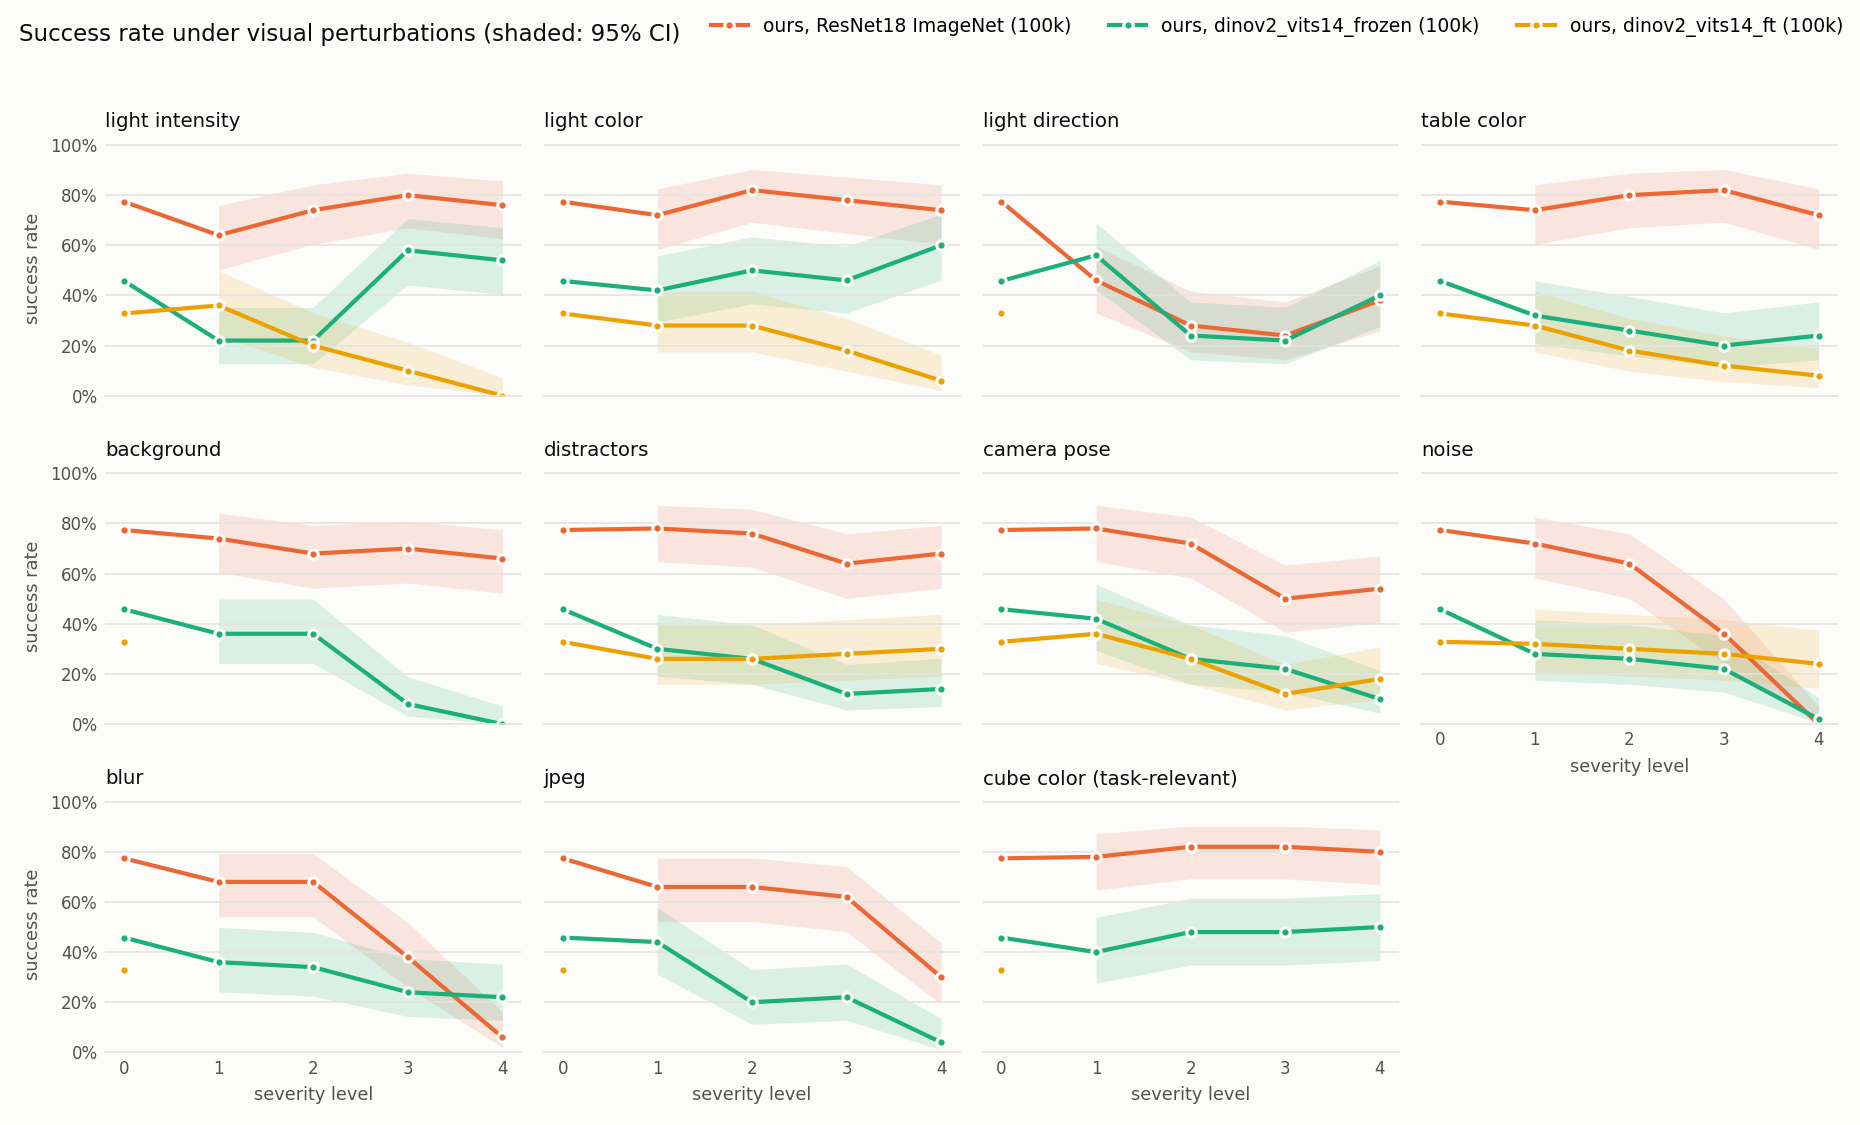
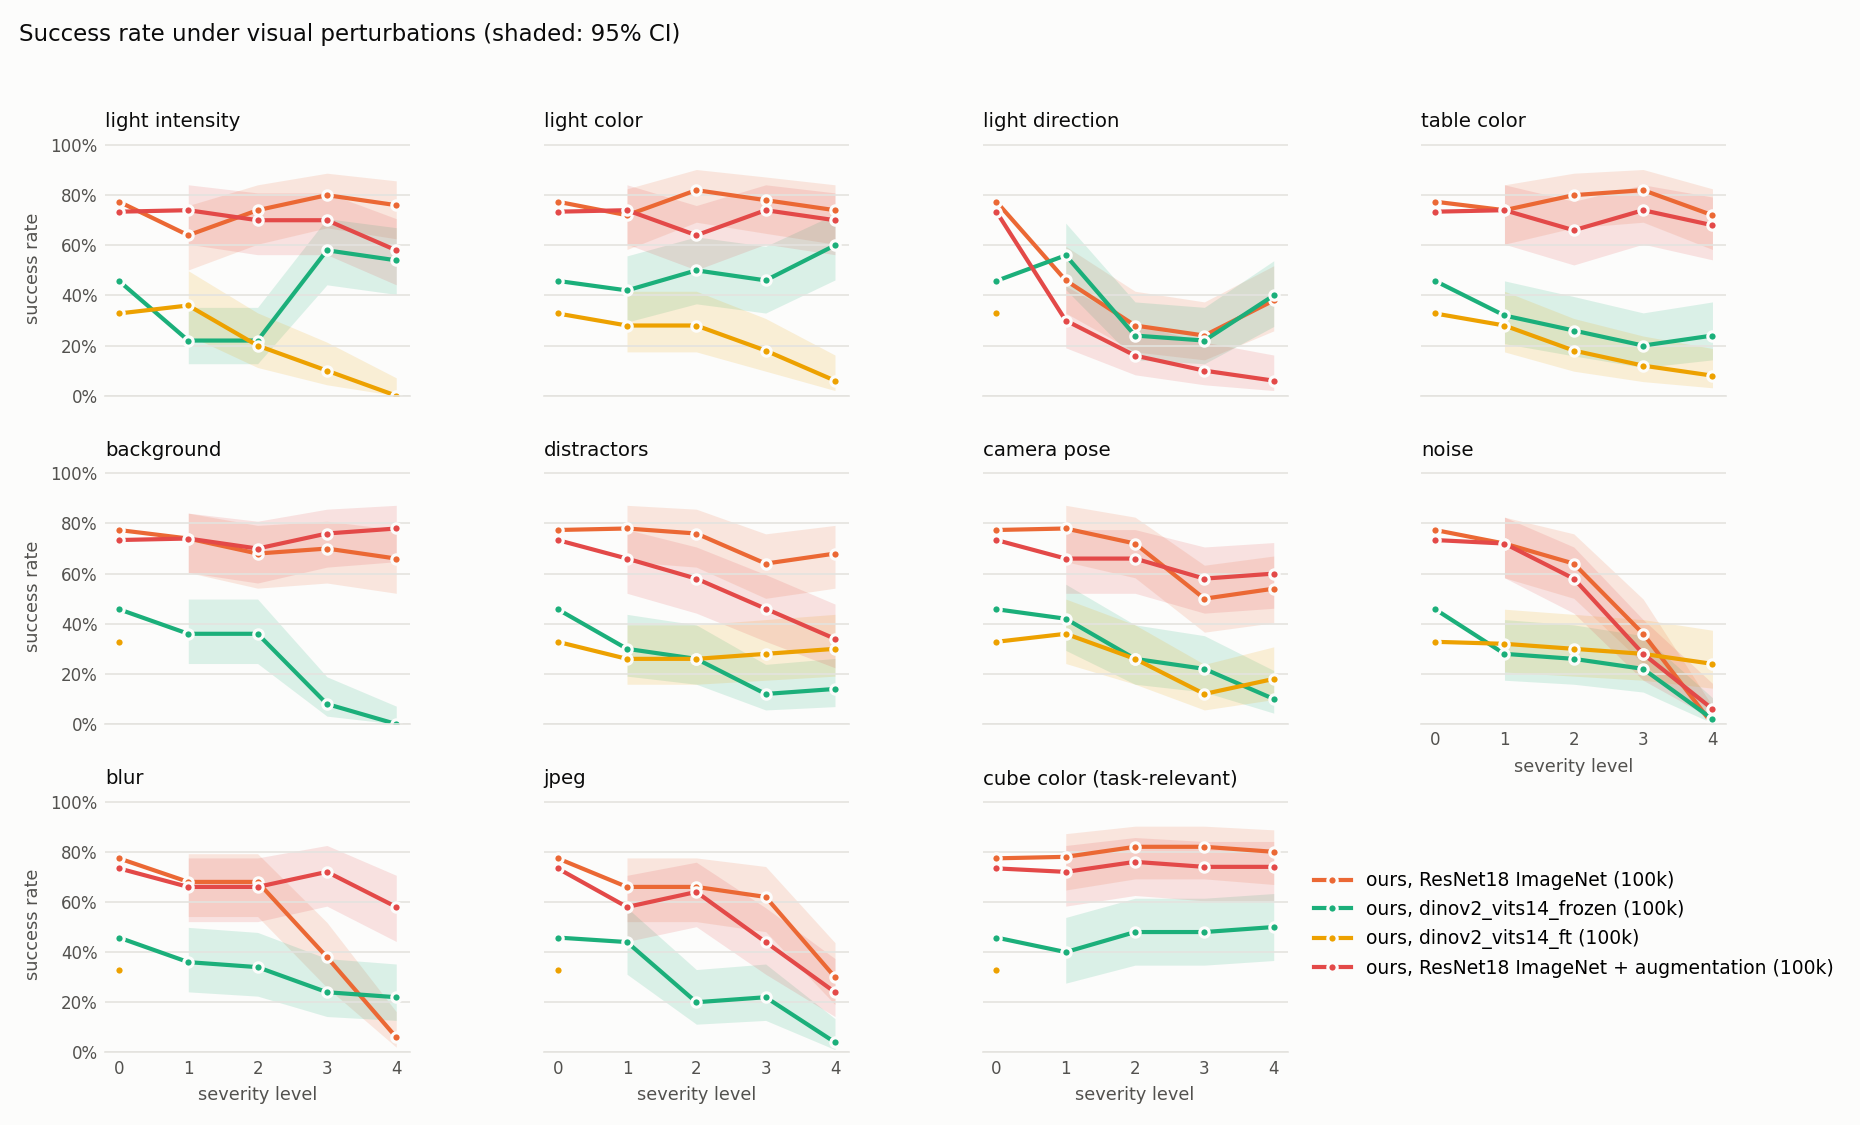
Step 3a results: augmentation fixes blur, strengthens shadow dependence
- README: outcome of the pre-registered prediction for the augmented
  baseline (73.4 % clean, paired p = 0.11 vs. baseline): blur and camera
  pose improve, noise/JPEG do not, shadows off drops it to 9 % of clean
  (baseline 51 %), distractors become a new weakness; key finding 5 and
  overview row added; updated robustness figures with all policies
- fixed per-policy colors (the augmented baseline was drawn in red next to
  the orange baseline because empty run folders took palette slots)

diff --git a/src/avr/registry.py b/src/avr/registry.py
@@ -69,9 +69,25 @@ def trained(registry: dict[str, PolicyPaths]) -> dict[str, PolicyPaths]:
     return {k: v for k, v in registry.items() if os.path.exists(f"{v.checkpoint}/config.json")}
 
 
+# Fixed colors (validated categorical palette, light surface) for the policies we report, chosen so that the
+# pairs compared most (baseline vs. its augmented version) are far apart; anything else gets the remaining slots.
+FIXED_COLORS = {
+    "pretrained ACT (LeRobot Hub)": "#2a78d6",                   # blue
+    "ours, ResNet18 ImageNet (100k)": "#eb6834",                 # orange
+    "ours, dinov2_vits14_frozen (100k)": "#1baf7a",              # aqua
+    "ours, dinov2_vits14_ft (100k)": "#eda100",                  # yellow
+    "ours, ResNet18 ImageNet + augmentation (100k)": "#4a3aa7",  # violet
+    "ours, dinov2_vits14_hr_frozen (100k)": "#e87ba4",           # magenta
+}
+
+
 def policy_colors(registry: dict) -> dict[str, str]:
-    """A fixed categorical color per policy (registry order), used by every figure so a
-    policy keeps its color no matter which subset a plot shows."""
+    """A fixed categorical color per policy, used by every figure so a policy keeps its color no
+    matter which subset a plot shows (or which empty run folders exist on Drive)."""
     from avr.analysis.robustness import SERIES_COLORS
 
-    return {label: SERIES_COLORS[i % len(SERIES_COLORS)] for i, label in enumerate(registry)}
+    spare = [c for c in SERIES_COLORS if c not in FIXED_COLORS.values()]
+    others = [label for label in registry if label not in FIXED_COLORS]
+    colors = {label: FIXED_COLORS[label] for label in registry if label in FIXED_COLORS}
+    colors.update({label: spare[i % len(spare)] for i, label in enumerate(others)})
+    return colors

diff --git a/tests/test_registry_and_probe_stats.py b/tests/test_registry_and_probe_stats.py
@@ -69,3 +69,13 @@ def test_variant_colors_do_not_depend_on_other_folders(tmp_path):
     after = policy_colors(policy_registry(str(tmp_path)))
     label = "ours, dinov2_vits14_frozen (100k)"
     assert before[label] == after[label]
+
+
+def test_compared_policies_get_fixed_distinct_colors(tmp_path):
+    from avr.registry import policy_colors
+
+    (tmp_path / "runs" / "actenc_transfer_cube_human_clip_vitb16_frozen_s1000").mkdir(parents=True)
+    colors = policy_colors(policy_registry(str(tmp_path)))
+    base, aug = colors["ours, ResNet18 ImageNet (100k)"], colors["ours, ResNet18 ImageNet + augmentation (100k)"]
+    assert (base, aug) == ("#eb6834", "#4a3aa7")
+    assert len(set(colors.values())) == len(colors)

diff --git a/README.md b/README.md
@@ -22,6 +22,9 @@ with purely visual perturbations, and works out **what each policy actually reli
 4. **A 10-minute probe predicts a new policy's weak spots.** Replaying clean actions under each perturbation (states stay
    identical, only pixels change) and measuring the shift of the predicted action chunk ranks the closed-loop damage.
    Pre-registered on finetuned DINOv2 before running its suite: Spearman ρ = −0.72 (p = 7e-5).
+5. **Standard augmentation is not a free fix.** LeRobot's image augmentation (color jitter, sharpness, small affine)
+   made the baseline robust to blur and camera shifts at no significant clean cost, but its shadow dependence got much
+   worse (shadows off: 51 % → 9 % of clean success retained) and distractors became a new weakness.
 
 ![Success retained relative to each policy's clean rate (same seeds), per perturbation and severity](results/robustness_curves_relative.png)
 
@@ -31,7 +34,8 @@ with purely visual perturbations, and works out **what each policy actually reli
 | **Baseline:** ACT, ImageNet ResNet18, finetuned | 77.4 % | 1.2 % | shadows / light direction, strong noise, blur, JPEG | color, background, distractors |
 | ACT, DINOv2 ViT-S/14, frozen | 45.8 % | 20.2 % | distractors, background, camera pose, shadows | blur, color, lighting |
 | ACT, DINOv2 ViT-S/14, finetuned | 32.8 % | 35.2 % | brightness, light / table color, camera pose | noise, distractors, shadows |
-| ACT, DINOv2 ViT-S/14 at 2× resolution, frozen | *training* | | | |
+| ACT, ResNet18, finetuned **+ image augmentation** | 73.4 % | 0.4 % | shadows / light direction (stronger), noise, JPEG, distractors | blur, camera pose, color, background |
+| ACT, DINOv2 ViT-S/14 at 2× resolution, frozen | *paused at 16k steps* | | | |
 
 <table>
 <tr>
@@ -63,7 +67,7 @@ gripper; frozen DINOv2 (bottom) depends on the whole table and background.*
 |---|---|---|
 | 1 · Baseline | Reproduce ACT on `AlohaTransferCube-v0` (pretrained checkpoint + own training) | ✅ |
 | 2 · Analysis | Perturbation suite + shadow diagnostics ✅; encoders: DINOv2 frozen ✅, finetuned ✅, 2× resolution 🚧, ResNet18 from scratch / CLIP / SigLIP ⏳; replay probe + occlusion maps ✅ | 🚧 |
-| 3 · Method | Targeted modification derived from the analysis: (A) standard image augmentation 🚧, (B) shadow augmentation ⏳ | 🚧 |
+| 3 · Method | Targeted modification derived from the analysis: (A) standard image augmentation ✅, (B) shadow augmentation ⏳ | 🚧 |
 
 ## Detailed results
 
@@ -310,6 +314,36 @@ camera pose 71 / 77 % (levels 3 / 4).
 6. Photometric factors (light intensity / color, table color) stay robust, as they already were.
 
 If 5 holds, run B (an augmentation that adds and removes shadow-like regions) targets the remaining weakness directly.
+
+#### Outcome: augmentation fixed blur, and made the policy *more* dependent on shadows
+
+Trained on Kaggle (T4, 0.310 s/step, training + evaluation 9.7 h in one background run). Clean: **73.4 %**
+(95 % CI 69.4–77.1 %) vs. 77.4 % for the baseline; paired on the same 500 seeds the baseline alone succeeds in 82
+episodes, the augmented policy alone in 62 (p = 0.11). Suite, success retained relative to clean on the same seeds
+(both policies: 70 % clean on seeds 1000–1049):
+
+| Perturbation | Baseline | + augmentation | Predicted | |
+|---|---|---|---|---|
+| clean success | 77.4 % | 73.4 % (p = 0.11) | within ±5 points | ✅ |
+| camera pose, levels 3 / 4 | 71 / 77 % | 83 / 86 % | ≥ 85 % | ◐ improved, level 3 just below |
+| blur, levels 3 / 4 | 54 / **9 %** | 103 / **83 %** | at most slight, level 4 not | ❌ large improvement |
+| noise, levels 3 / 4 | 51 / 0 % | 40 / 9 % | no improvement | ✅ |
+| JPEG, levels 3 / 4 | 89 / 43 % | 63 / 34 % | no improvement | ✅ |
+| **shadows off** | 51 % | **9 %** (3 / 50, p_Holm = 2e-8) | still costs about half | ❌ much worse |
+| light direction, levels 1–4 | 65 / 40 / 34 / 54 % | **43 / 23 / 14 / 9 %** | stays the main weakness | ✅ but much worse |
+| light intensity / color, table color, background, cube color | ≈ 100 % | ≈ 100 % | stay robust | ✅ |
+| distractors, levels 3 / 4 | 91 / 97 % | 66 / **49 %** (level 4: p_Holm = 0.002) | (not predicted) | new weakness |
+
+Three predictions held, one partly, two failed, and the failures are the interesting part:
+
+* **Blur robustness came from the sharpness jitter**, which we had judged too mild.
+* **The shadow dependence got much stronger, not just stayed:** with shadows switched off the augmented policy keeps 9 %
+  of its clean success (baseline 51 %), and without shadows rotating the light no longer matters (success 6 / 6 / 6 / 4 % at levels 1–4).
+  Our reading: brightness / contrast / color jitter removes photometric shortcuts, while shadows are high-contrast
+  shapes that survive every one of these transforms, so the policy leans on them even more. The same may explain the new
+  sensitivity to distractors, which are also shapes. **Standard augmentation trades one kind of robustness for a
+  stronger dependence on the one cue it cannot touch**, which is exactly the motivation for run B: augment the shadows
+  themselves.
 
 ## Perturbation suite
 
